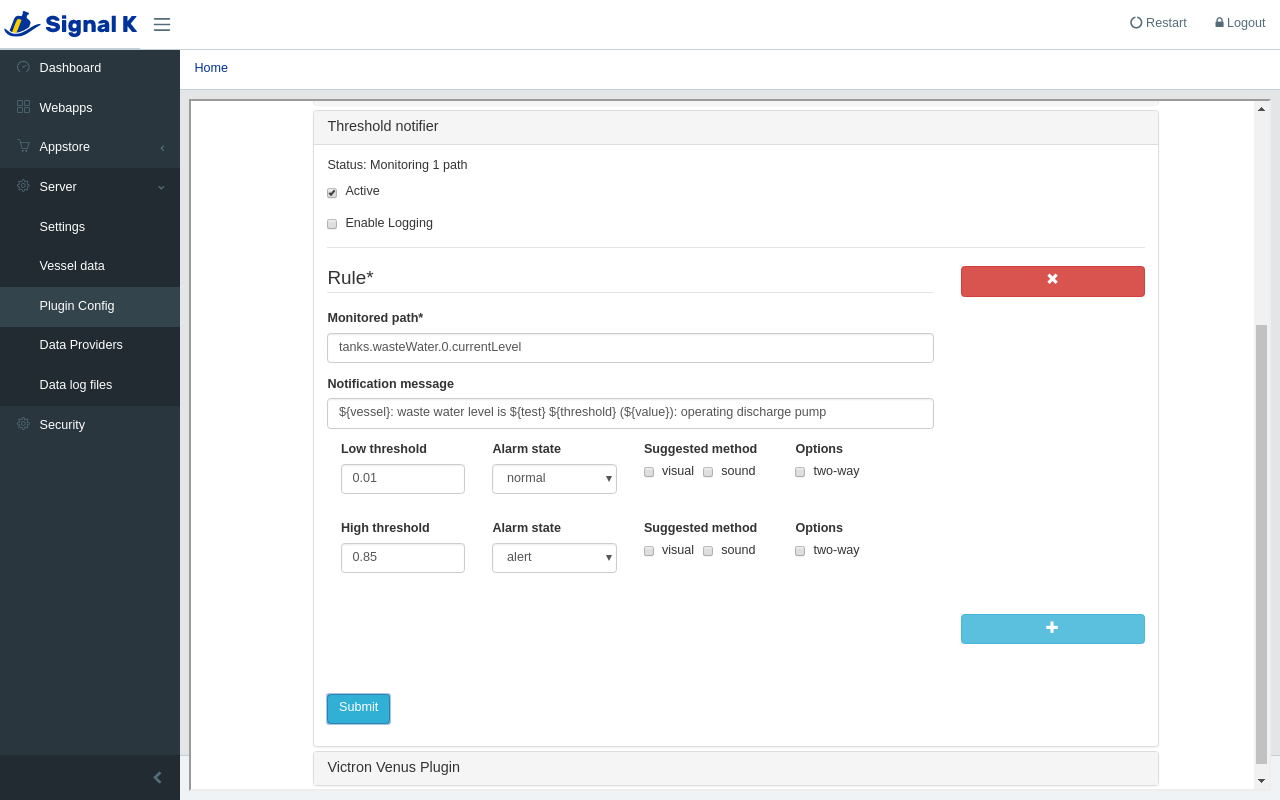
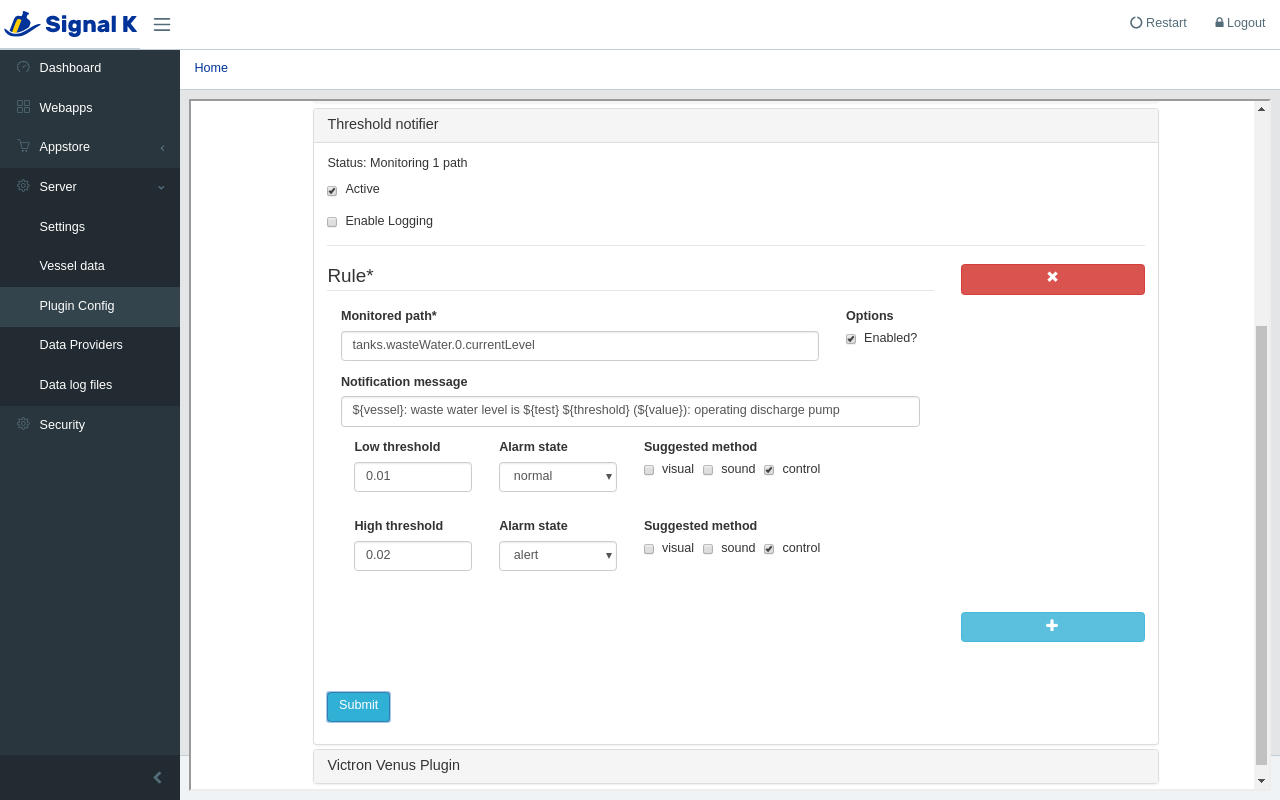
Schema change

diff --git a/index.js b/index.js
@@ -49,53 +49,33 @@ module.exports = function(app) {
 		unsubscribes = (options.paths || [])
         .reduce((a, {
             path,
+            options,
             message,
             lowthreshold,
             highthreshold
         }) => {
-            if ((lowthreshold) && (lowthreshold.value)) {
-                a.push({
-                    "path": path,
-                    "message": message,
-                    "type": "lowthreshold",
-                    "lowthreshold": lowthreshold,
-                    "highthreshold": highthreshold
-                });
-            }
-            if ((highthreshold) && (highthreshold.value)) {
-                a.push({
-                    "path": path,
-                    "message": message,
-                    "type": "highthreshold",
-                    "lowthreshold": lowthreshold,
-                    "highthreshold": highthreshold
-                });
+            if (options.includes("enabled")) { 
+			    var stream = app.streambundle.getSelfStream(path)
+			    a.push(stream.map(value => {
+                    lowthreshold['actual'] = highthreshold['actual'] = value;
+			        if ((lowthreshold) && (lowthreshold.value) && (value < lowthreshold.value)) {
+                        return(-1);
+				    } else if ((highthreshold) && (highthreshold.value) && (value > highthreshold.value)) {
+                        return(1);
+				    } else {
+                        return(0);
+                    }
+			    }).skipDuplicates().onValue(test => {
+			        var notification = sendNotificationUpdate(test, path, message, lowthreshold, highthreshold);
+                    if (notification == null) {
+                        log.N("cancelling notification on '" + path + "'", false);
+                    } else if (notification !== undefined) {
+                        log.N("issuing notification '" + JSON.stringify(notification), false);
+                    }
+			    }));
             }
             return(a);
-        }, [])
-        .map(({
-            path,
-            message,
-            type,
-            lowthreshold,
-            highthreshold
-        }) => {
-			var stream = app.streambundle.getSelfStream(path)
-			return(stream.map(value => {
-                if (lowthreshold) lowthreshold['actual'] = value;
-                if (highthreshold) highthreshold['actual'] = value;
-			    if ((type == "lowthreshold") && (value < lowthreshold.value)) {
-					return(-1);
-				} else if ((type == "highthreshold") && (value > highthreshold.value)) {
-					return(1);
-				} else {
-					return(0);
-				}
-			}).skipDuplicates().onValue(test => {
-				var notificationValue = sendNotificationUpdate(test, path, message, type, lowthreshold, highthreshold);
-                if (notificationValue !== null) log.N(JSON.stringify(notificationValue), false);
-			}));
-		});
+		}, []);
 	}
 
 	plugin.stop = function() {
@@ -103,32 +83,24 @@ module.exports = function(app) {
 		unsubscribes = []
 	}
 
-	function sendNotificationUpdate(test, path, message, type, lowthreshold, highthreshold) {
+	function sendNotificationUpdate(test, path, message, lowthreshold, highthreshold) {
         var notificationValue = null;
         var date = (new Date()).toISOString();
 		var delta = { "context": "vessels." + app.selfId, "updates": [ { "source": { "label": "self.notificationhandler" }, "values": [ { "path": "notifications." + path, "value": notificationValue } ] } ] };
 		var vessel = app.getSelfPath("name");
-        var threshold = (type == "lowthreshold")?lowthreshold.value:highthreshold.value;
-        var state = (type == "lowthreshold")?lowthreshold.state:highthreshold.state;
-        var method = (type == "lowthreshold")?lowthreshold.method:highthreshold.method;
-        var value = (type == "lowthreshold")?lowthreshold.actual:highthreshold.actual;
-        var testzero = ((type == "lowthreshold") && lowthreshold.options.includes("two-way")) || ((type == "highthreshold") && highthreshold.options.includes("two-way"));
 
 		if (test != 0) {
+            var state = ((test == 1)?highthreshold:lowthreshold).state;
+            var method = ((test == 1)?highthreshold:lowthreshold).method;
+            var value = ((test == 1)?highthreshold:lowthreshold).actual;
+            var threshold = ((test == 1)?highthreshold:lowthreshold).value;
+
 		    test = (test == -1)?"below":"above";
-		    switching = (test == "below")?"stopping":"starting";
 		    message = (message === undefined)?app.getSelfPath(path + ".meta.displayName"):((!message)?path:eval("`" + message + "`"));
             notificationValue = { "state": state, "message": message, "method": method, "timestamp": date };
-            delta.updates[0].values[0].value = notificationValue;
-		    app.handleMessage(plugin.id, delta);
-		} else if (testzero) {
-            test = (lowthreshold && highthreshold)?"between":((lowthreshold)?"below":"above");
-            threshold = (lowthreshold && highthreshold)?`${lowthreshold.value} and ${highthreshold.value}`:threshold;
-            message = eval("`" + message + "`");
-            notificationValue = { "state": "normal", "message": message, "method": method, "timestamp": date };
-            delta.updates[0].values[0].value = notificationValue;
-		    app.handleMessage(plugin.id, delta);
 		}
+        delta.updates[0].values[0].value = notificationValue;
+		app.handleMessage(plugin.id, delta);
         return(notificationValue);
 	}
 

diff --git a/README.md b/README.md
@@ -48,6 +48,10 @@ There is no default value.
 Enter here the full Signal K path for the value which you would like to
 monitor, for example, "tanks.wasteWater.0.currentValue".
 
+__Options->Enabled?__  
+Whether or not to process this rule.
+Default value is yes (checked).
+
 __Notification message__  
 An optional text message which will be assigned to the message property of
 all notifications generated by the rule.
@@ -82,13 +86,11 @@ An example message text might be "${vessel}: ${path} is ${test} ${threshold} (cu
 __Low threshold__  
 An optional numerical value which sets the lower threshold against which the
 monitored path value will be compared.
-The default value is a blank entry which disables monitoring of the
-low-threshold.
+The default value is a blank entry which disables monitoring of the low
+threshold.
 
-If a value is supplied and the path value falls below this limit then a
-notification of the type specified by the associated options will be issued.
-If the 'two-way' option is set, then a notification will again be issued when
-the monitored value returns above this limit.
+If a value is specified and the monitored path value falls below this limit
+then a notification of the type defined by _Alarm state_ will be issued.
 
 __Alarm state__  
 A required value which will be assigned to the notification _state_ property
@@ -99,22 +101,17 @@ Choose a value appropriate to the notification event.
 Remember that notifications in Signal K may be processed by downstream handlers
 and the chosen state could have significance elsewhere: an example is the
 __signalk-switchbank__ plugin which treats "normal" and non-"normal" alarm
-states as binary switch signals.
+states as part of a switching signal.
 
 __Suggested method__  
 An optional value which will be assigned to the notification _method_ property
 which is used to suggest to downstream notification handlers a preference for
-how ai notification may be announced.
+how a notification may be handled.
 Default is to express no preference.
 
-Choose a value which you think appropriate, or none at all.
-
-__Options__  
-
-_==> two-way_ causes a notification to be issued when the monitored path value
-returns above the specified threshold.
-A notification issued in this way always has its _state_ property set to
-"normal".
+Choose any values which you think appropriate, or none at all.
+Once again, some downstream notification handlers may require a particular
+value or combination of values in order to perform their function.
 
 The cluster of options associated with defining a high threshold have similar
 semantics to those described above: the __High threshold__ option itself,
@@ -122,51 +119,26 @@ naturally, defines an upper threshold against which the monitored path value
 will be tested for a low-to-high transition.
 ## Use cases
 
-__1.  Issuing a notification when a tank level approaches full__
-
-Once upon a time the black water tank on _Beatrice_ overtopped into the bilge.
-
-Gauges and alarms obviously don't do it for me, so I now get the ship to also
-send an SMS message to my cell phone when the level of waste in the tank
-approaches capacity.
-I use the __signalk-renotifier__ plugin to send texts from notifications and
-so I need to inject a notification into the tree in order for the whole
-process to hang together and the rule I use to do this has the following
-settings:
-```
-Monitored path:         tanks.wasteWater.0.currentLevel
-Notification message:   ${vessel}: waste tank level is ${test} ${threshold}
-High threshold:         0.8
-Alarm state:            alert
-Suggested method:       visual
-Options:                (none)
-```
-I now receive the text message "Beatrice: waste tank level is above 0.8" when
-the tank level passes the 80% threshold.
-
-__2.  Automatically starting a pump when a tank level approaches full__
+__Automatically starting a pump when a tank level approaches full__
 
 Have I mentioned that the black water tank on _Beatrice_ once overflowed.
 
 My environmentally unfriendly last-ditch attempt to stop this ever happening
-again (that is when I've not read the gauge, missed the alarm and ignored the
-SMS warnings) is to automatically start my discharge pump if the waste tanks
+again (that is when I've not read the gauge, missed the alarm and ignored my
+SMS warnings) is to automatically start my discharge pump if the waste tank
 level becomes critical.
-I use the __signalk-switchbank__ plugin to start the pump and this requires
-an _alert_ notification to start the pump and a subsequent _normal_
-notification to stop it. 
+I use the __signalk-switchbank__ plugin to operate the pump and this requires
+a notification to start the pump and a subsequent notification to stop it.
 The rule I use has the following settings:
 ```
 Monitored path:         tanks.wasteWater.0.currentLevel
-Notification message:   ${vessel}: automatic waste tank discharge pump alert: tank level is ${test} ${threshold}
+Notification message:   ${vessel}: waste tank level is ${test} ${threshold} (automatic pump control is enabled)
 High threshold:         0.9
 Alarm state:            alert
-Suggested method:       sound
-Options:                (none)
+Suggested method:       sound, on
 Low threshold:          0.01
 Alarm state:            normal
-Suggested method:       (none)
-Options:                (none)
+Suggested method:       off
 ```
 My in-for-a-penny, in-for-a-pound approach means that I aim to start the
 pump when the tank level passes the 90% threshold and stop the pump when

diff --git a/readme/use-cases.md b/readme/use-cases.md
@@ -1,50 +1,25 @@
 ## Use cases
 
-__1.  Issuing a notification when a tank level approaches full__
-
-Once upon a time the black water tank on _Beatrice_ overtopped into the bilge.
-
-Gauges and alarms obviously don't do it for me, so I now get the ship to also
-send an SMS message to my cell phone when the level of waste in the tank
-approaches capacity.
-I use the __signalk-renotifier__ plugin to send texts from notifications and
-so I need to inject a notification into the tree in order for the whole
-process to hang together and the rule I use to do this has the following
-settings:
-```
-Monitored path:         tanks.wasteWater.0.currentLevel
-Notification message:   ${vessel}: waste tank level is ${test} ${threshold}
-High threshold:         0.8
-Alarm state:            alert
-Suggested method:       visual
-Options:                (none)
-```
-I now receive the text message "Beatrice: waste tank level is above 0.8" when
-the tank level passes the 80% threshold.
-
-__2.  Automatically starting a pump when a tank level approaches full__
+__Automatically starting a pump when a tank level approaches full__
 
 Have I mentioned that the black water tank on _Beatrice_ once overflowed.
 
 My environmentally unfriendly last-ditch attempt to stop this ever happening
-again (that is when I've not read the gauge, missed the alarm and ignored the
-SMS warnings) is to automatically start my discharge pump if the waste tanks
+again (that is when I've not read the gauge, missed the alarm and ignored my
+SMS warnings) is to automatically start my discharge pump if the waste tank
 level becomes critical.
-I use the __signalk-switchbank__ plugin to start the pump and this requires
-an _alert_ notification to start the pump and a subsequent _normal_
-notification to stop it. 
+I use the __signalk-switchbank__ plugin to operate the pump and this requires
+a notification to start the pump and a subsequent notification to stop it.
 The rule I use has the following settings:
 ```
 Monitored path:         tanks.wasteWater.0.currentLevel
-Notification message:   ${vessel}: automatic waste tank discharge pump alert: tank level is ${test} ${threshold}
+Notification message:   ${vessel}: waste tank level is ${test} ${threshold} (automatic pump control is enabled)
 High threshold:         0.9
 Alarm state:            alert
-Suggested method:       sound
-Options:                (none)
+Suggested method:       sound, on
 Low threshold:          0.01
 Alarm state:            normal
-Suggested method:       (none)
-Options:                (none)
+Suggested method:       off
 ```
 My in-for-a-penny, in-for-a-pound approach means that I aim to start the
 pump when the tank level passes the 90% threshold and stop the pump when

diff --git a/readme/usage.md b/readme/usage.md
@@ -24,6 +24,10 @@ There is no default value.
 Enter here the full Signal K path for the value which you would like to
 monitor, for example, "tanks.wasteWater.0.currentValue".
 
+__Options->Enabled?__  
+Whether or not to process this rule.
+Default value is yes (checked).
+
 __Notification message__  
 An optional text message which will be assigned to the message property of
 all notifications generated by the rule.
@@ -58,13 +62,11 @@ An example message text might be "${vessel}: ${path} is ${test} ${threshold} (cu
 __Low threshold__  
 An optional numerical value which sets the lower threshold against which the
 monitored path value will be compared.
-The default value is a blank entry which disables monitoring of the
-low-threshold.
+The default value is a blank entry which disables monitoring of the low
+threshold.
 
-If a value is supplied and the path value falls below this limit then a
-notification of the type specified by the associated options will be issued.
-If the 'two-way' option is set, then a notification will again be issued when
-the monitored value returns above this limit.
+If a value is specified and the monitored path value falls below this limit
+then a notification of the type defined by _Alarm state_ will be issued.
 
 __Alarm state__  
 A required value which will be assigned to the notification _state_ property
@@ -75,22 +77,17 @@ Choose a value appropriate to the notification event.
 Remember that notifications in Signal K may be processed by downstream handlers
 and the chosen state could have significance elsewhere: an example is the
 __signalk-switchbank__ plugin which treats "normal" and non-"normal" alarm
-states as binary switch signals.
+states as part of a switching signal.
 
 __Suggested method__  
 An optional value which will be assigned to the notification _method_ property
 which is used to suggest to downstream notification handlers a preference for
-how ai notification may be announced.
+how a notification may be handled.
 Default is to express no preference.
 
-Choose a value which you think appropriate, or none at all.
-
-__Options__  
-
-_==> two-way_ causes a notification to be issued when the monitored path value
-returns above the specified threshold.
-A notification issued in this way always has its _state_ property set to
-"normal".
+Choose any values which you think appropriate, or none at all.
+Once again, some downstream notification handlers may require a particular
+value or combination of values in order to perform their function.
 
 The cluster of options associated with defining a high threshold have similar
 semantics to those described above: the __High threshold__ option itself,
